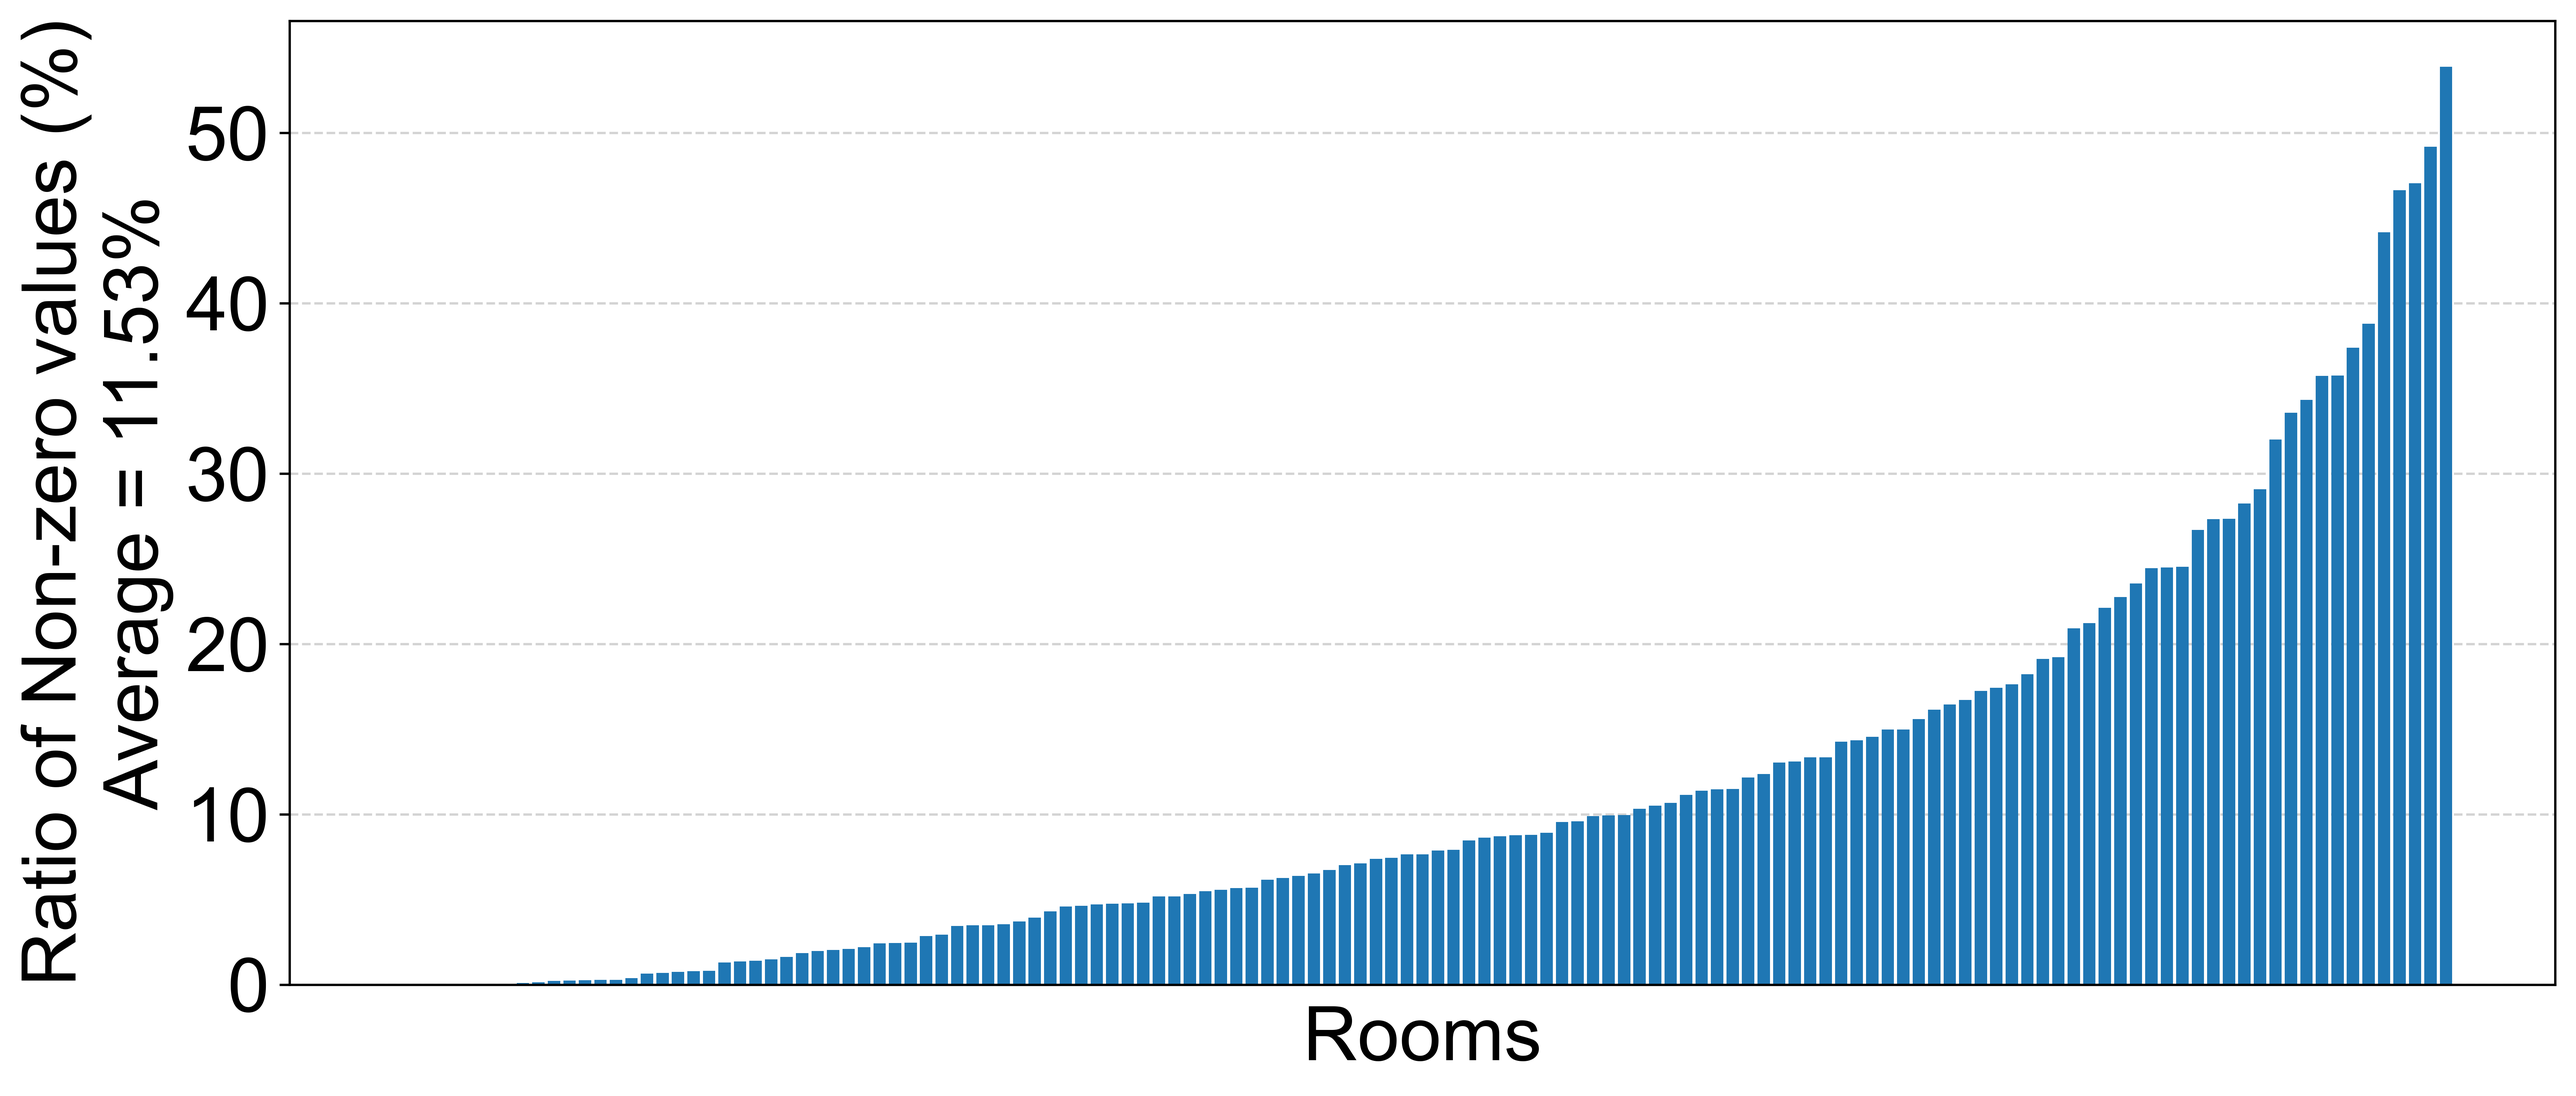
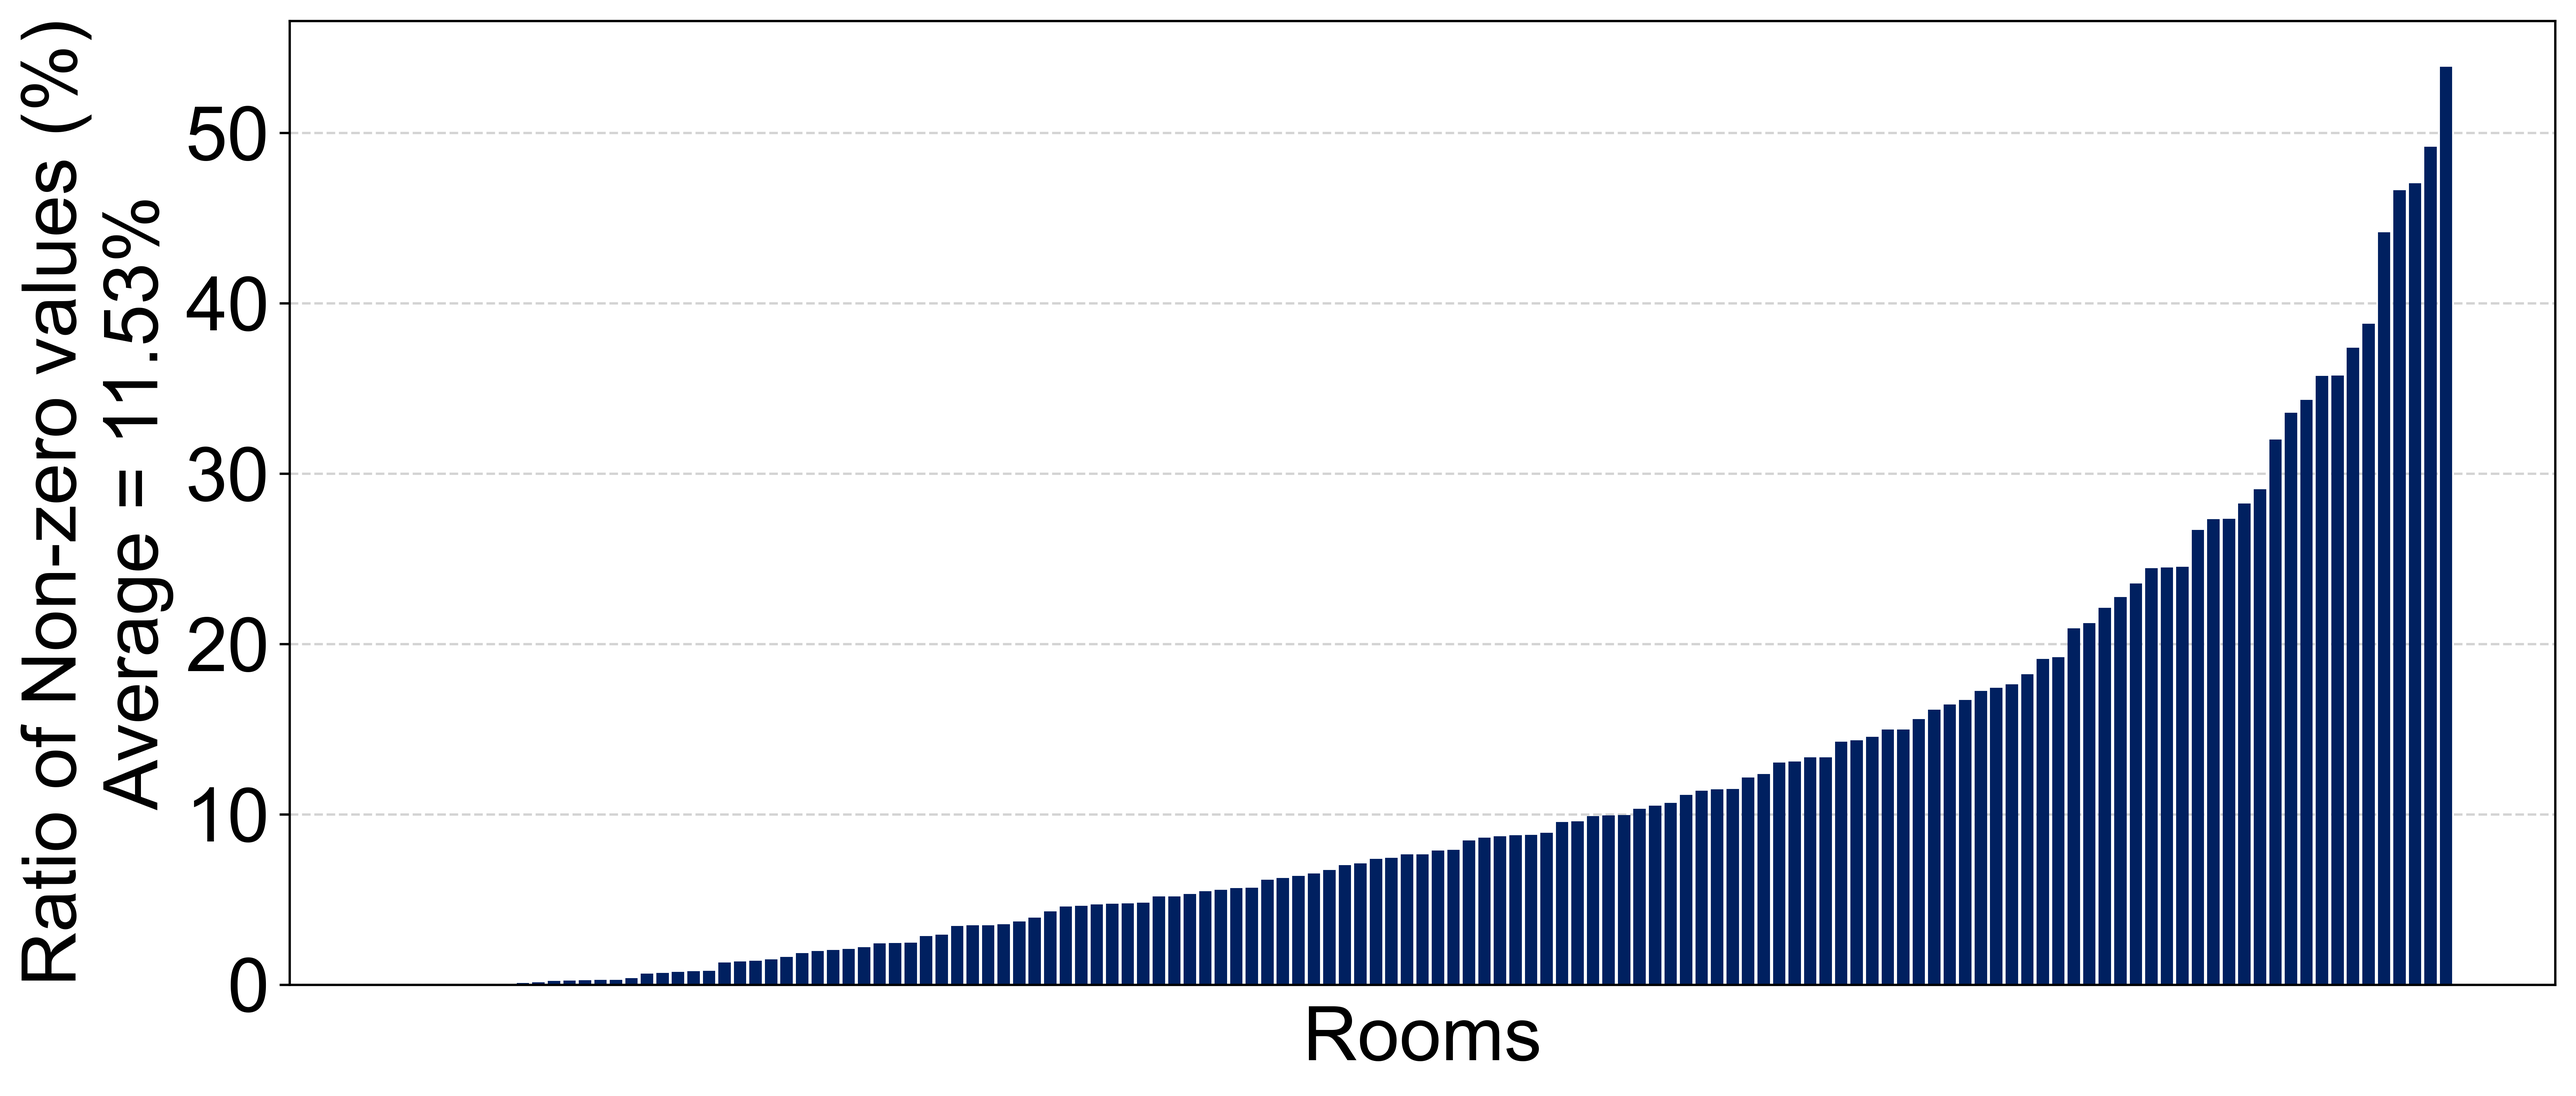
update plots

Changed region(s): [[0.2497, 0.0622, 0.9674, 0.9016]]

diff --git a/2022_2023_verification/overall_plot.py b/2022_2023_verification/overall_plot.py
@@ -50,10 +50,10 @@ normal_data = data[data.Location.isin(normal_room_list_final)]
 poor_data = data[data.Location.isin(poor_room_list_final)]
 sns.distplot(normal_data['AC'], bins=sorted(normal_data['AC'].unique()),
              label="Normal efficiency AC: Mean={}kWh".format(round(np.mean(normal_data['AC']), 3)),
-             color="brown", hist_kws={"edgecolor": "black"}, kde_kws={"linewidth": "3"})
+             color="brown", hist_kws={"edgecolor": "black"}, kde_kws={"linewidth": "3"})  # brown
 sns.distplot(poor_data['AC'], bins=sorted(poor_data['AC'].unique()),
              label="Low efficiency AC: Mean={}kWh".format(round(np.mean(poor_data['AC']), 3)),
-             color="skyblue", hist_kws={"edgecolor": "black"}, kde_kws={"linewidth": "3"})
+             color="skyblue", hist_kws={"edgecolor": "black"}, kde_kws={"linewidth": "3"})  # skyblue
 # plt.title(title[i], fontsize=28, loc='left')
 ratio = "%.2f" % (100 * (round(np.mean(poor_data['AC']), 4) - round(np.mean(normal_data['AC']), 4)) / round(
     np.mean(poor_data['AC']), 4))
@@ -64,7 +64,7 @@ plt.ylabel("Kernel Density", fontsize=26)
 plt.grid(color='lightgray', linestyle='--', linewidth=0.8)
 plt.xticks(fontsize=26)
 plt.ylim(0, 9)
-plt.yticks([0, 1, 2, 3, 4, 5, 6, 7, 8,9], fontsize=26)
+plt.yticks([0, 1, 2, 3, 4, 5, 6, 7, 8, 9], fontsize=26)
 plt.legend(fontsize=23, frameon=False, loc='upper left')
 # plt.suptitle(
 #     "Energy Consumption Comparison Between Different RAC Efficiency Groups\nDuring Four Time Periods in 2022/01/01 - 2022/12/31",

diff --git a/2022_2023_verification/cate_comparison_plot.py b/2022_2023_verification/cate_comparison_plot.py
@@ -14,7 +14,7 @@ from setting_1.utils import efficiency_dict, normal_room_list, poor_room_list
 os.environ["KMP_DUPLICATE_LIB_OK"] = "TRUE"
 plt.rcParams["font.family"] = "Arial"
 plt.rcParams["figure.autolayout"] = True
-plt.rcParams['figure.figsize'] = 21, 14
+plt.rcParams['figure.figsize'] = 21, 15
 plt.rcParams.update({'font.size': 15})
 
 predictions = pd.read_csv('./prediction.csv', index_col=None).sort_values(by=['pred'], ascending=True)
@@ -62,7 +62,7 @@ for i in range(4):
     ratio = "%.2f" % (100 * (round(np.mean(poor_data['AC']), 4) - round(np.mean(normal_data['AC']), 4)) / round(
         np.mean(poor_data['AC']), 4))
     plt.xlabel("Half-hourly AC Electricity Consumption/kWh", fontsize=26)
-    plt.text(0.028, 0.76, "Potentially savable electricity: {}%".format(
+    plt.text(0.028, 0.78, "Potentially savable electricity: {}%".format(
         ratio), ha='left', va='center', transform=plt.gca().transAxes, fontsize=23)
     if i % 2 == 0:
         plt.ylabel("Kernel Density", fontsize=26)

diff --git a/preprocessing/AC_Consumption_plot.py b/preprocessing/AC_Consumption_plot.py
@@ -21,7 +21,7 @@ for r in sampled_Location + [621]:
     plt.subplot(2, 1, (sampled_Location + [621]).index(r) + 1)
     data_temp = data[data.Location == r].reset_index(drop=True)
     data_temp = data_temp[(data_temp.Time >= date_start) & (data_temp.Time <= date_end)]
-    plt.plot(data_temp['Time'], data_temp['AC'], label='AC', color='tab:blue', linewidth=5)
+    plt.plot(data_temp['Time'], data_temp['AC'], label='AC', color='#002060' if r == 804 else '#002060', linewidth=5)
     # plt.title("Room: {}".format(r), fontsize=23, loc='left')
     plt.yticks([0.0, 0.1, 0.2, 0.3, 0.4, 0.5], fontsize=26)
     plt.xticks([pd.to_datetime('2021-05-14'), pd.to_datetime('2021-05-15'), pd.to_datetime('2021-05-16')], fontsize=26)

diff --git a/preprocessing/check_by_room.py b/preprocessing/check_by_room.py
@@ -16,7 +16,7 @@ location_nonzero_ratio = [100 * location_number_nonzero_data[i] / location_numbe
 avg = mean(location_nonzero_ratio)
 location_nonzero_ratio, Location = zip(*sorted(zip(location_nonzero_ratio, Location), reverse=False))
 # plot a barplot containing len(Location) bars, each with the value in location_number_data
-plt.bar(range(len(Location)), location_nonzero_ratio, color='tab:blue', zorder=2)
+plt.bar(range(len(Location)), location_nonzero_ratio, color='#002060', zorder=2)
 plt.yticks(fontsize=26)
 plt.xticks([], fontsize=26)
 plt.ylabel("Ratio of Non-zero values (%)\nAverage = {}%".format(round(avg, 2)), fontsize=26)
